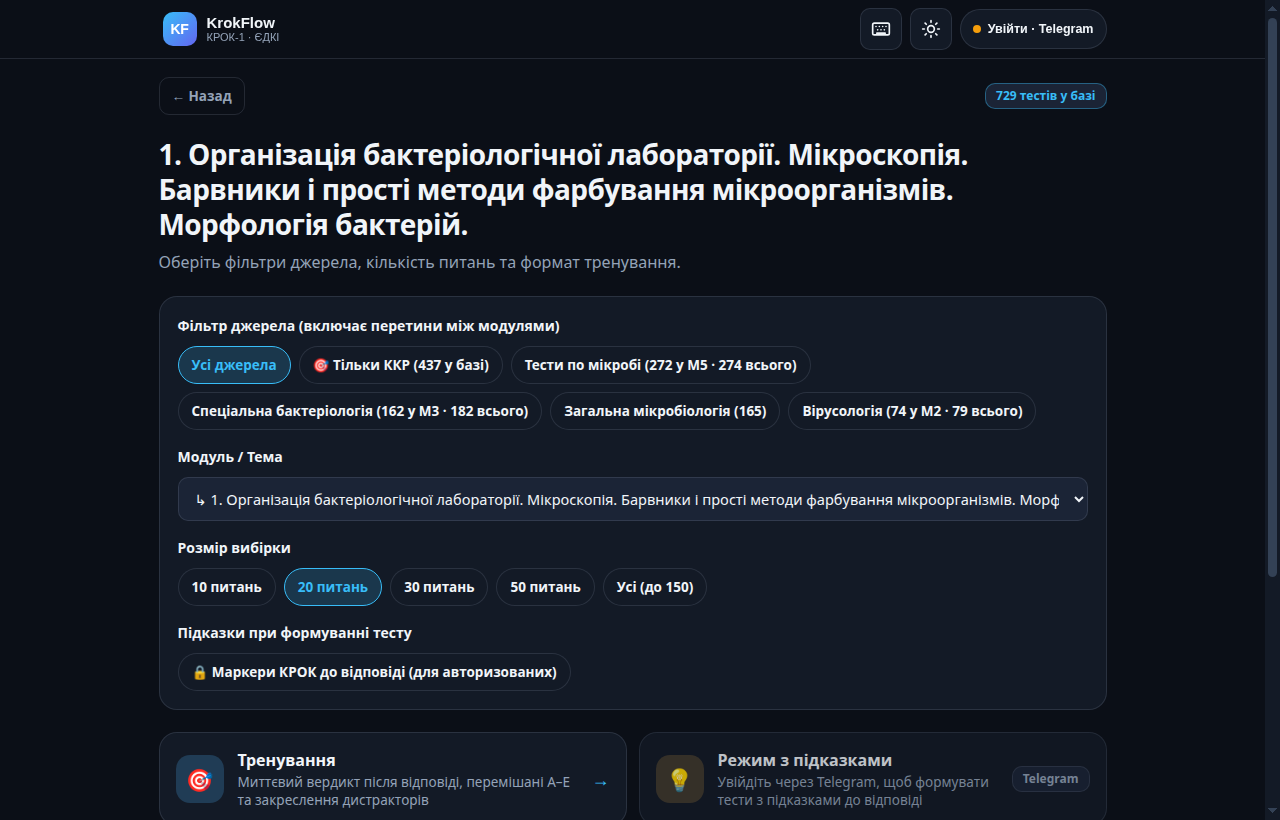
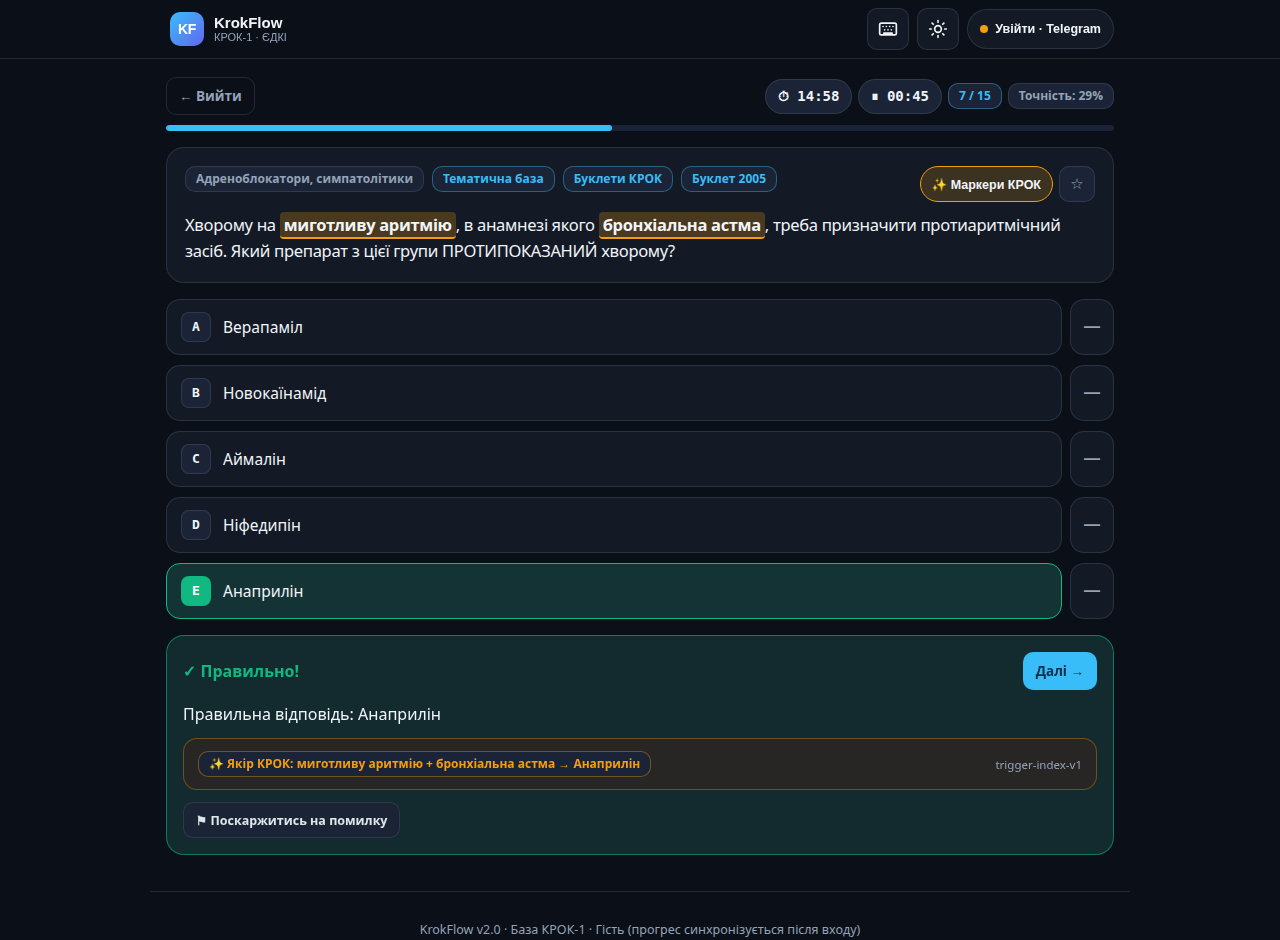
docs: refresh v2.8.0 interface preview screenshots

diff --git a/README.md b/README.md
@@ -33,6 +33,6 @@ uvicorn app.main:app --host 127.0.0.1 --port 8780
 
 ## Interface Preview
 
-| Home & Topic Explorer | Topic Filters & Mode Selection |
+| Home & Cascade Constructor | Training · Timers, KROK Markers & Anchor |
 | :---: | :---: |
 | ![KrokFlow Home](docs/krokflow_home.png) | ![KrokFlow Training](docs/krokflow_training.png) |
